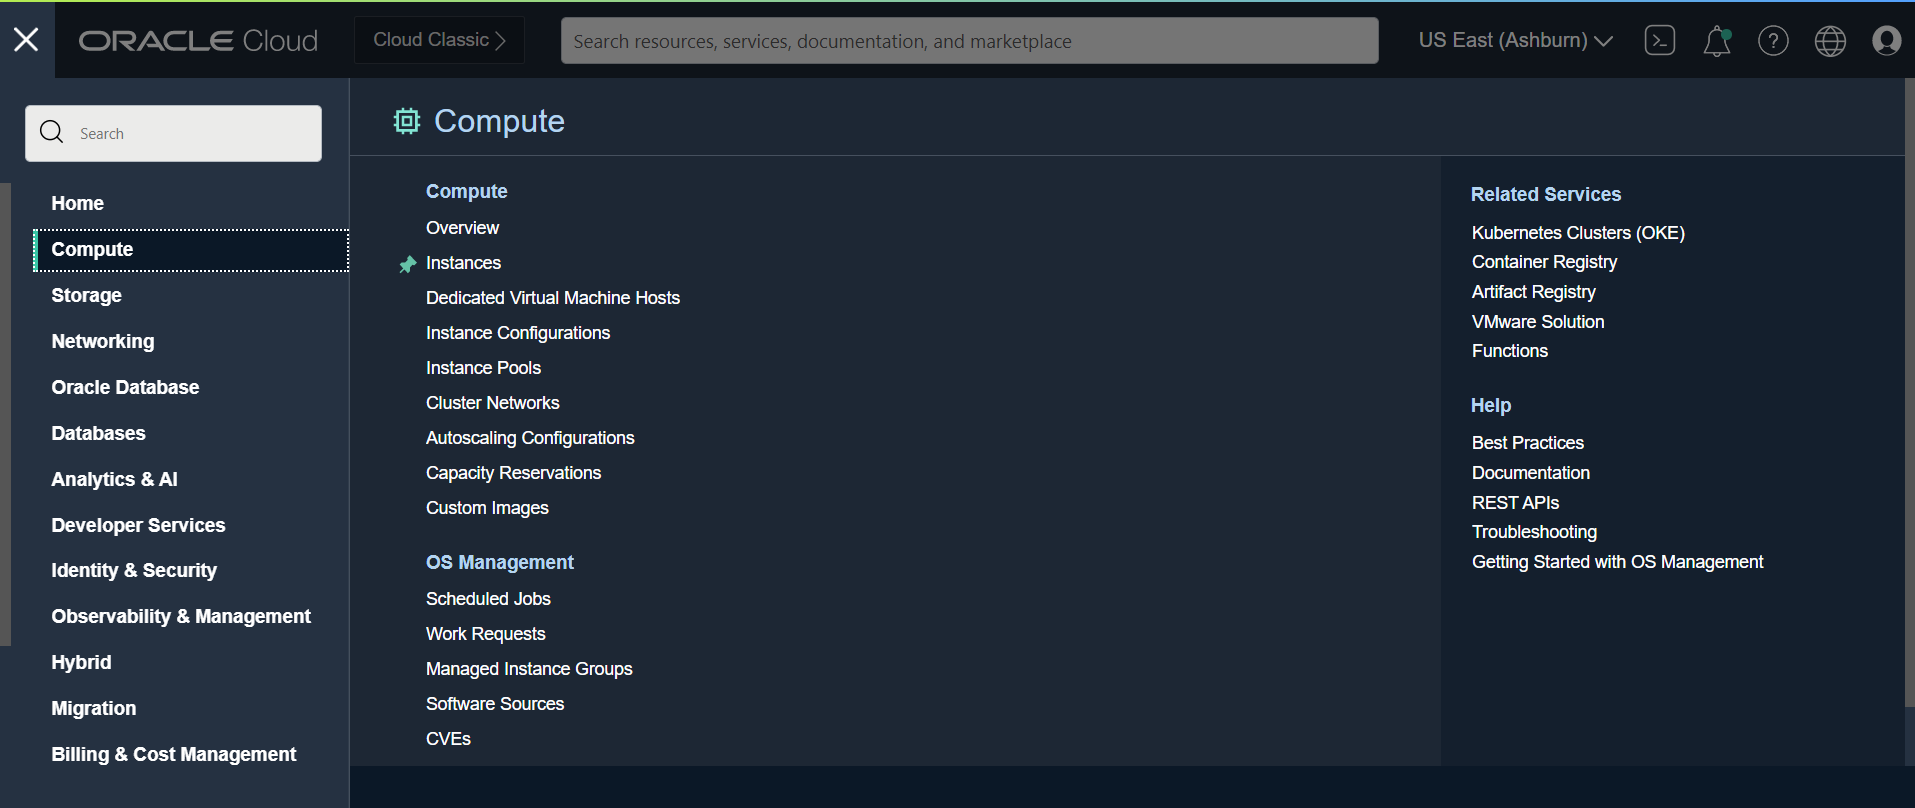
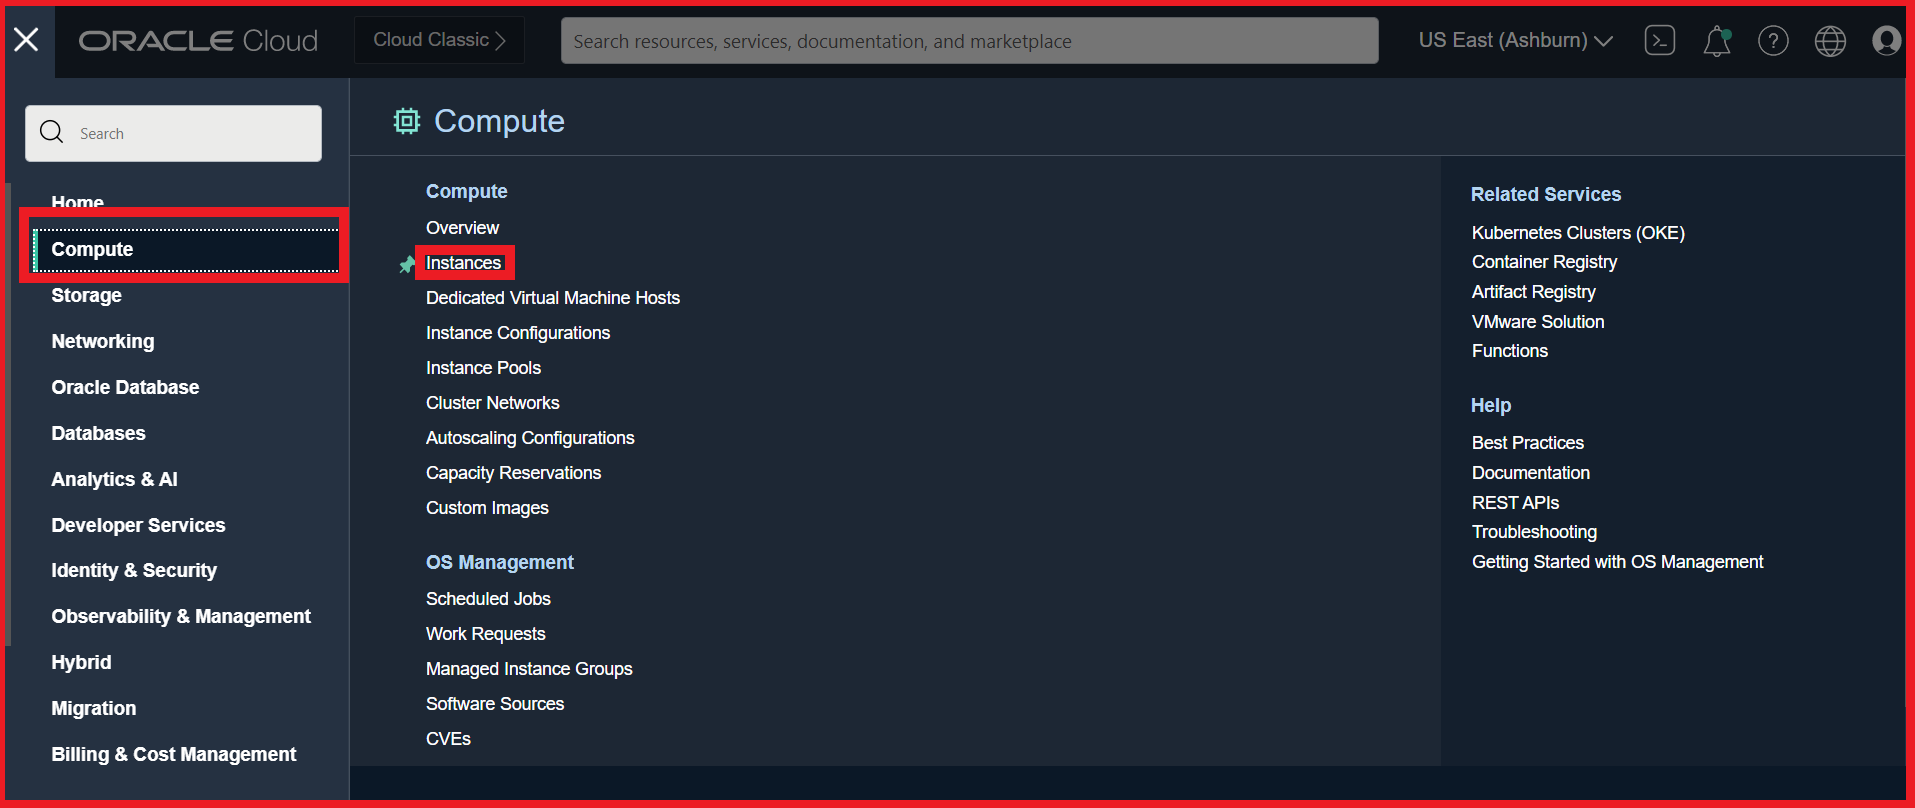
readme_lab3

Changed region(s): [[0.0, 0.0, 1.0, 1.0], [0.0, 0.2475, 0.1849, 0.3713], [0.2157, 0.2785, 0.2773, 0.3713]]

diff --git a/Lab. #5 - Heatwave/LAB3/README.md b/Lab. #5 - Heatwave/LAB3/README.md
@@ -4,3 +4,20 @@ Faça login no console OCI, navegue até o menu Compute e clique em Instances.
 
 ![_](./Images/IMG_001.PNG)
 
+Clique em "Create Instance"
+
+![_](./Images/IMG_002.PNG)
+
+Escolha um nome para sua VM e Selecione o Compartment
+
+![_](./Images/IMG_003.PNG)
+
+A imagem e o Shape pode deixar o recomendado
+
+![_](./Images/IMG_004.PNG)
+
+Em seguida salve as chaves SShs Privadas e Públicas e clique em Create
+
+![_](./Images/IMG_005.PNG)
+
+
